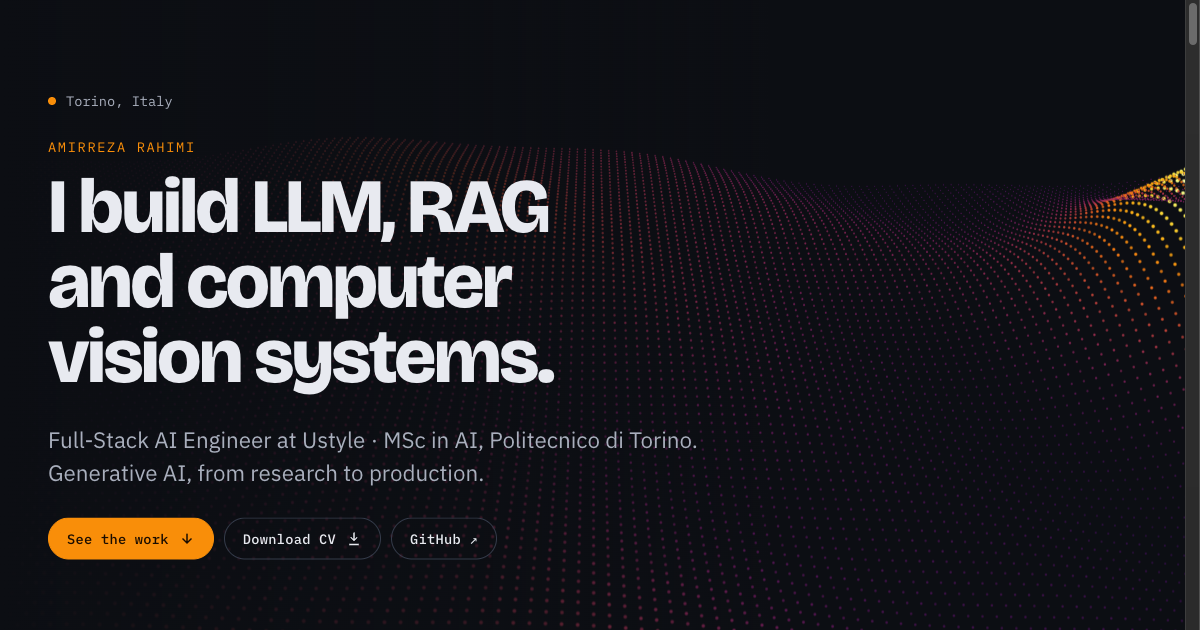
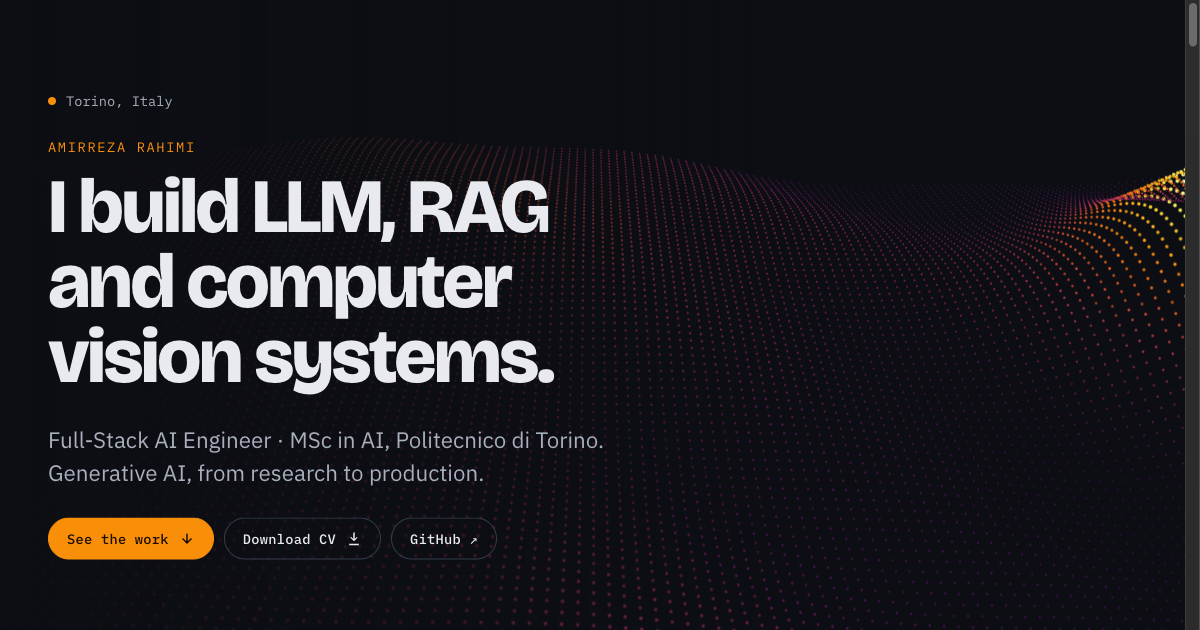
Ustyle role ended Oct 2026: past tense across site, CV and preview

Changed region(s): [[0.2158, 0.6635, 0.5858, 0.7238], [0.8942, 0.2714, 0.9867, 0.3921]]

diff --git a/scripts/export_cv.py b/scripts/export_cv.py
@@ -29,8 +29,8 @@ def bullet(s):
     return {"label": "", "text": clean(s)}
 
 
-USTYLE_FULLTIME = ["production_software_ml", "llm_vlm", "production_genai_platforms",
-                   "fullstack_web", "local_llm_ops", "ml_monitoring", "ecommerce"]
+USTYLE_FULLTIME = ["production_software_ml", "llm_vlm_past", "production_genai_platforms_past",
+                   "fullstack_web", "local_llm_ops", "ml_monitoring", "ecommerce_past"]
 USTYLE_THESIS = ["vto_research_past", "body_seg"]
 
 data = {
@@ -43,7 +43,7 @@ data = {
     "github": "https://github.com/rezar771",
     "experience": [
         {"role": "Full-Stack AI Engineer", "org": "Ustyle S.r.l.", "location": "Torino, Italy",
-         "dates": "Jan 2026 – Present", "current": True,
+         "dates": "Jan 2026 – Oct 2026",
          "bullets": [bullet(cv.USTYLE_BULLETS[k]) for k in USTYLE_FULLTIME]},
         {"role": "AI & Computer Vision Engineer (Thesis Intern)", "org": "Ustyle S.r.l.",
          "location": "Torino, Italy", "dates": "Sep 2025 – Jan 2026",
